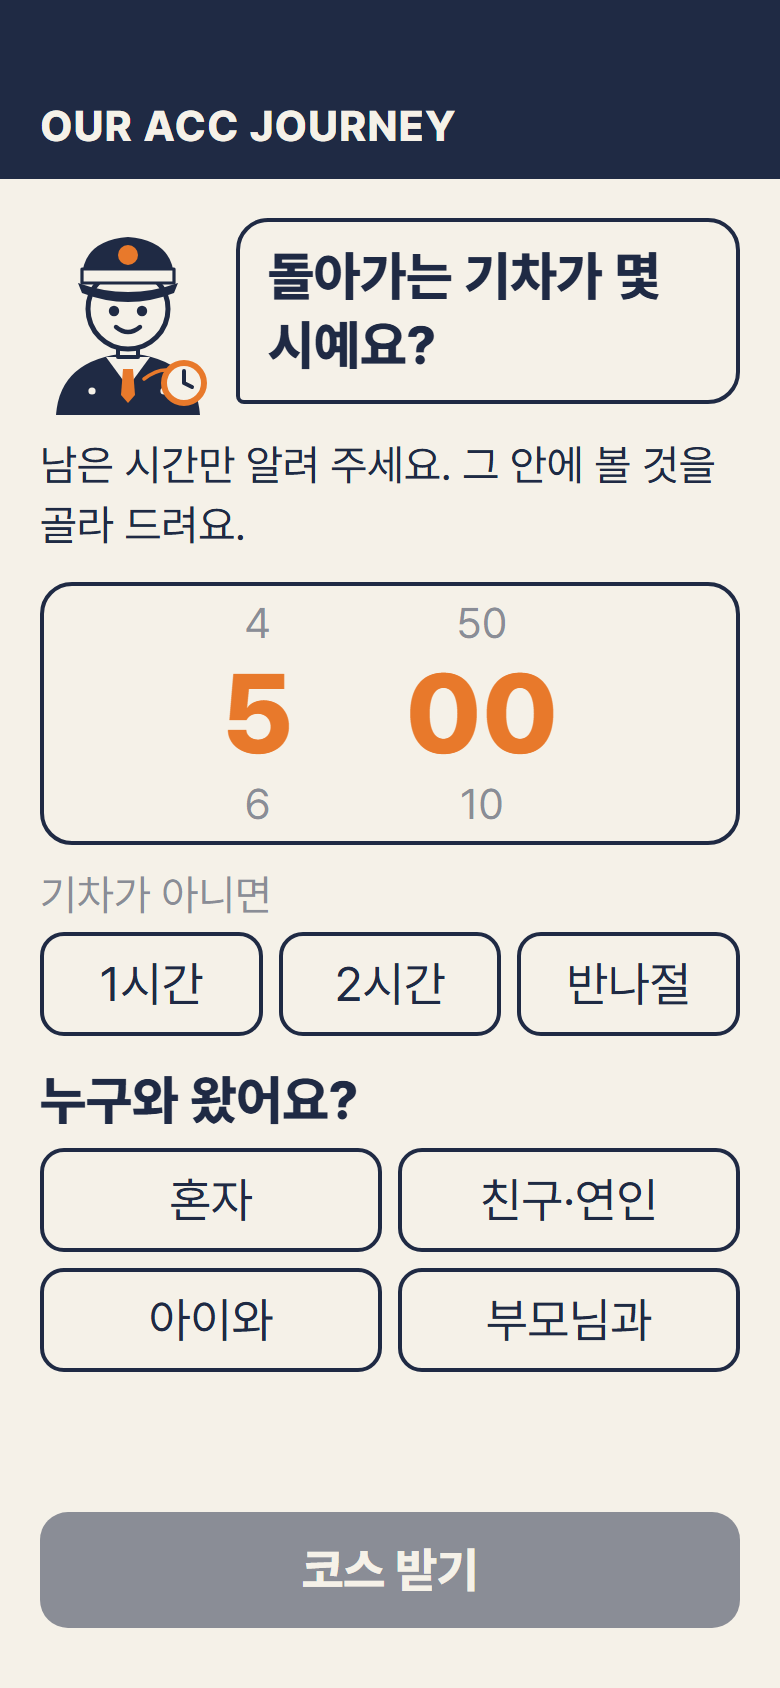
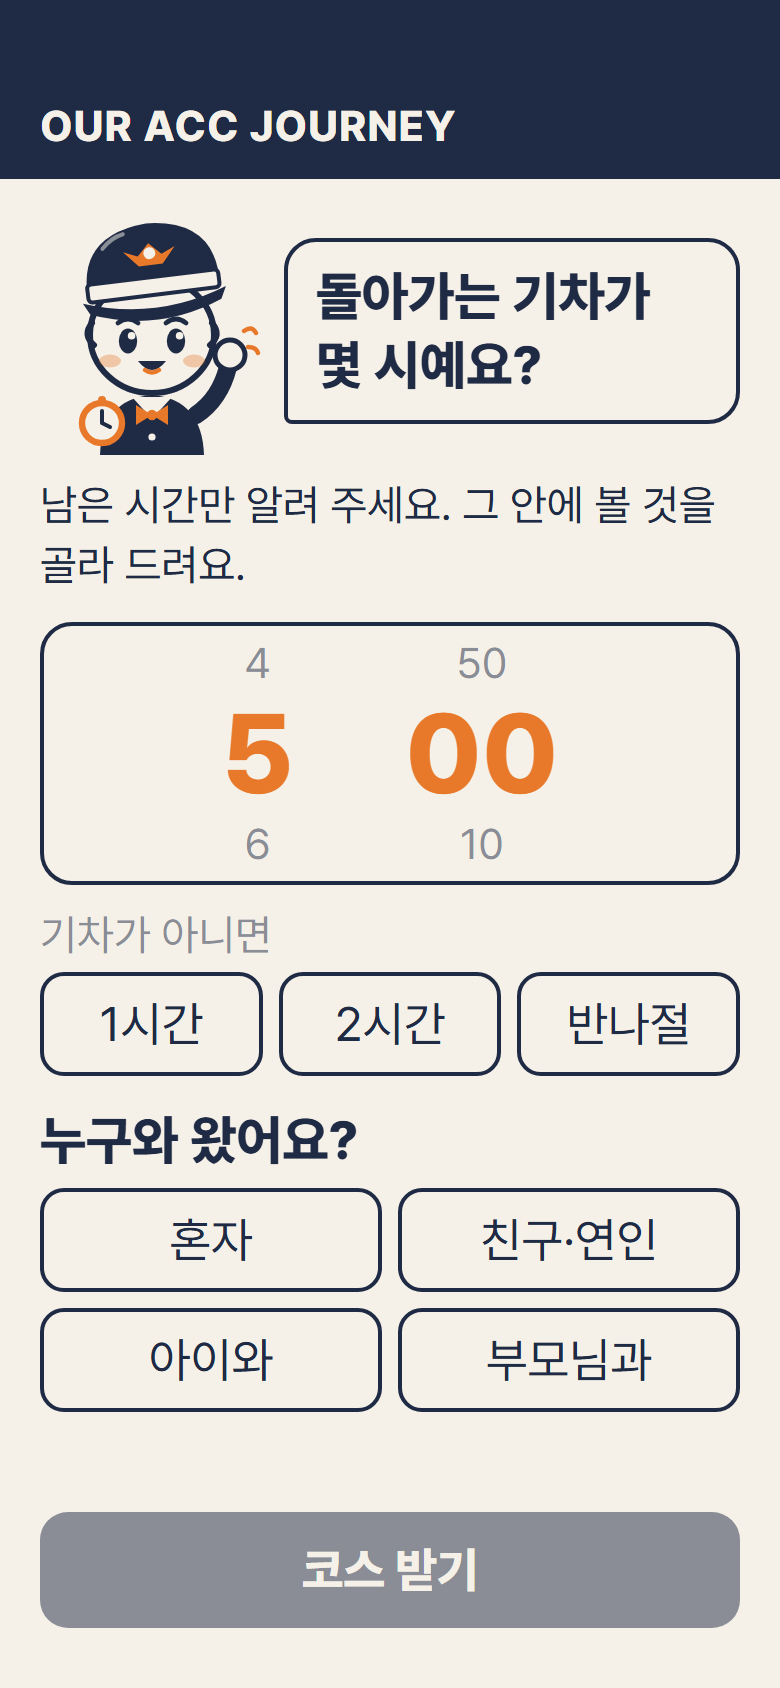
brand: 첫 화면 역무원 캐릭터를 만화풍(2등신)으로 다시 그림

diff --git a/brand/service-main-screen.html b/brand/service-main-screen.html
@@ -39,27 +39,43 @@
   <!-- ① -->
   <div class="bar">OUR ACC JOURNEY</div>
   <div class="head">
-    <!-- ACC 역무원 캐릭터 (상상): 역무원 모자 + 제복 + 회중시계 (꼼꼼하게 시간부터 계산) -->
-    <svg width="88" height="104" viewBox="0 0 88 104" style="flex:0 0 auto" stroke-linejoin="round" stroke-linecap="round">
-      <!-- 제복 -->
-      <path d="M8 104 Q10 76 44 73 Q78 76 80 104 Z" fill="#1F2A44"/>
-      <path d="M33 75 L44 90 L55 75 Z" fill="#F5F1E8"/>
-      <path d="M41.5 81 H46.5 L47.5 94 L44 98 L40.5 94 Z" fill="#E8792B"/>
-      <circle cx="26" cy="92" r="1.8" fill="#F5F1E8"/><circle cx="62" cy="92" r="1.8" fill="#F5F1E8"/>
-      <!-- 얼굴 -->
-      <rect x="39" y="66" width="10" height="9" fill="#F5F1E8" stroke="#1F2A44" stroke-width="2"/>
-      <circle cx="44" cy="51" r="20" fill="#F5F1E8" stroke="#1F2A44" stroke-width="2.5"/>
-      <circle cx="37" cy="52" r="2.6" fill="#1F2A44"/><circle cx="51" cy="52" r="2.6" fill="#1F2A44"/>
-      <path d="M38 60 Q44 65 50 60" fill="none" stroke="#1F2A44" stroke-width="2.2"/>
-      <!-- 역무원 모자 -->
-      <path d="M21 38 Q20 17 44 15 Q68 17 67 38 Z" fill="#1F2A44"/>
-      <rect x="21" y="31" width="46" height="7" fill="#F5F1E8" stroke="#1F2A44" stroke-width="1.6"/>
-      <path d="M19 38 Q44 47 69 38 L67 43 Q44 52 21 43 Z" fill="#1F2A44"/>
-      <circle cx="44" cy="24" r="5" fill="#E8792B"/>
-      <!-- 회중시계 -->
-      <path d="M52 86 Q60 80 66 82" fill="none" stroke="#E8792B" stroke-width="1.8"/>
-      <circle cx="72" cy="88" r="10" fill="#F5F1E8" stroke="#E8792B" stroke-width="3"/>
-      <path d="M72 88 V82 M72 88 L76 90" stroke="#1F2A44" stroke-width="2"/>
+    <!-- ACC 역무원 캐릭터 (상상, 만화풍 2등신): 큰 역무원 모자 · 큰 눈 · 손 흔들기 · 회중시계(꼼꼼하게 시간부터 계산) -->
+    <svg width="112" height="124" viewBox="0 0 112 124" style="flex:0 0 auto" stroke-linejoin="round" stroke-linecap="round">
+      <!-- 흔드는 팔 -->
+      <path d="M78 104 Q90 96 94 80" fill="none" stroke="#1F2A44" stroke-width="9"/>
+      <circle cx="95" cy="74" r="7.5" fill="#F5F1E8" stroke="#1F2A44" stroke-width="2.5"/>
+      <path d="M102 62 q4 -3 6 1 M104 70 q4 0 5 3" fill="none" stroke="#E8792B" stroke-width="2.2"/>
+      <!-- 몸 (작게) -->
+      <path d="M30 124 Q31 96 56 94 Q81 96 82 124 Z" fill="#1F2A44"/>
+      <path d="M46 95 L56 106 L66 95 Z" fill="#F5F1E8"/>
+      <path d="M56 104 L48 99 L48 109 Z M56 104 L64 99 L64 109 Z" fill="#E8792B"/>
+      <circle cx="56" cy="104" r="2.6" fill="#E8792B"/>
+      <circle cx="56" cy="115" r="1.8" fill="#F5F1E8"/>
+      <!-- 회중시계 든 손 -->
+      <circle cx="31" cy="108" r="10" fill="#F5F1E8" stroke="#E8792B" stroke-width="3.2"/>
+      <path d="M31 108 V102 M31 108 L35 110" stroke="#1F2A44" stroke-width="2"/>
+      <circle cx="31" cy="96.5" r="2" fill="#E8792B"/>
+      <!-- 머리 (크게) -->
+      <ellipse cx="56" cy="64" rx="31" ry="29" fill="#F5F1E8" stroke="#1F2A44" stroke-width="3"/>
+      <path d="M26 58 q-5 6 1 11 M86 58 q5 6 -1 11" fill="none" stroke="#1F2A44" stroke-width="3"/>
+      <!-- 눈 · 눈썹 -->
+      <path d="M39 58 q5 -4 10 0 M63 58 q5 -4 10 0" fill="none" stroke="#1F2A44" stroke-width="2.4"/>
+      <ellipse cx="44" cy="67" rx="4.6" ry="6.2" fill="#1F2A44"/><circle cx="45.8" cy="64.4" r="1.9" fill="#F5F1E8"/>
+      <ellipse cx="68" cy="67" rx="4.6" ry="6.2" fill="#1F2A44"/><circle cx="69.8" cy="64.4" r="1.9" fill="#F5F1E8"/>
+      <!-- 볼 · 입 -->
+      <ellipse cx="35" cy="77" rx="5.5" ry="3.2" fill="#E8792B" opacity=".35"/>
+      <ellipse cx="77" cy="77" rx="5.5" ry="3.2" fill="#E8792B" opacity=".35"/>
+      <path d="M49 77 Q56 86 63 77 Z" fill="#1F2A44"/>
+      <path d="M52.5 81.5 Q56 84 59.5 81.5" fill="none" stroke="#E8792B" stroke-width="2.2"/>
+      <!-- 역무원 모자 (크게, 살짝 기울임) -->
+      <g transform="rotate(-7 56 34)">
+        <path d="M23 44 Q20 10 56 8 Q92 10 89 44 Z" fill="#1F2A44"/>
+        <rect x="23" y="35" width="66" height="9" rx="2" fill="#F5F1E8" stroke="#1F2A44" stroke-width="2"/>
+        <path d="M20 44 Q56 57 92 44 L89 50 Q56 63 23 50 Z" fill="#1F2A44"/>
+        <path d="M43 21 L50 24 L56 18 L62 24 L69 21 L62 29 H50 Z" fill="#E8792B"/>
+        <circle cx="56" cy="23" r="3" fill="#F5F1E8"/>
+        <path d="M33 18 Q38 13 44 12" fill="none" stroke="#F5F1E8" stroke-width="2" opacity=".5"/>
+      </g>
     </svg>
     <div class="bubble">돌아가는 기차가 몇 시예요?</div>
   </div>

diff --git a/research.md b/research.md
@@ -85,3 +85,4 @@
 - 팀 brand/service-prompt.md(팀 통합, 신희연 정리) 그대로 첫 화면 1장 HTML. 넣을 것 4개(이름 바·모자·말풍선·안내 한 줄 / 휠 4·5·6, 50·00·10 + 머물 시간 3개 / 동행 2×2 / 코스 받기 흐린 남색). 화면 글 20개가 요청문 글과 같음, 그 밖의 글 없음
 - 키워드: 첫 화면, 팀 통합 프롬프트, 넣을 것 4개, 휠, 동행 2×2
 - 2026-11-19 첫 화면 캐릭터 변경 (brand/screen-draft.png, service-main-screen.html): 모자 아이콘 → ACC 역무원 캐릭터(역무원 모자·제복·회중시계, 색 3가지). 생김새는 팀 persona.md에 정해진 게 없어 새로 그림 (상상). 회중시계는 성격 '꼼꼼하다(시간부터 계산)'에서 가져옴. PNG 390×844(2배 해상도 780×1688)
+- 2026-11-19 캐릭터 다시 그림 (박대식 요청 "더 만화적으로"): 2등신(큰 머리·작은 몸), 크고 살짝 기운 역무원 모자 + 주황 휘장, 하이라이트 있는 큰 눈, 볼터치(주황 35%), 웃는 입, 손 흔들기, 나비넥타이, 회중시계. 색은 남색·크림·주황만 (볼터치는 주황을 흐리게)
